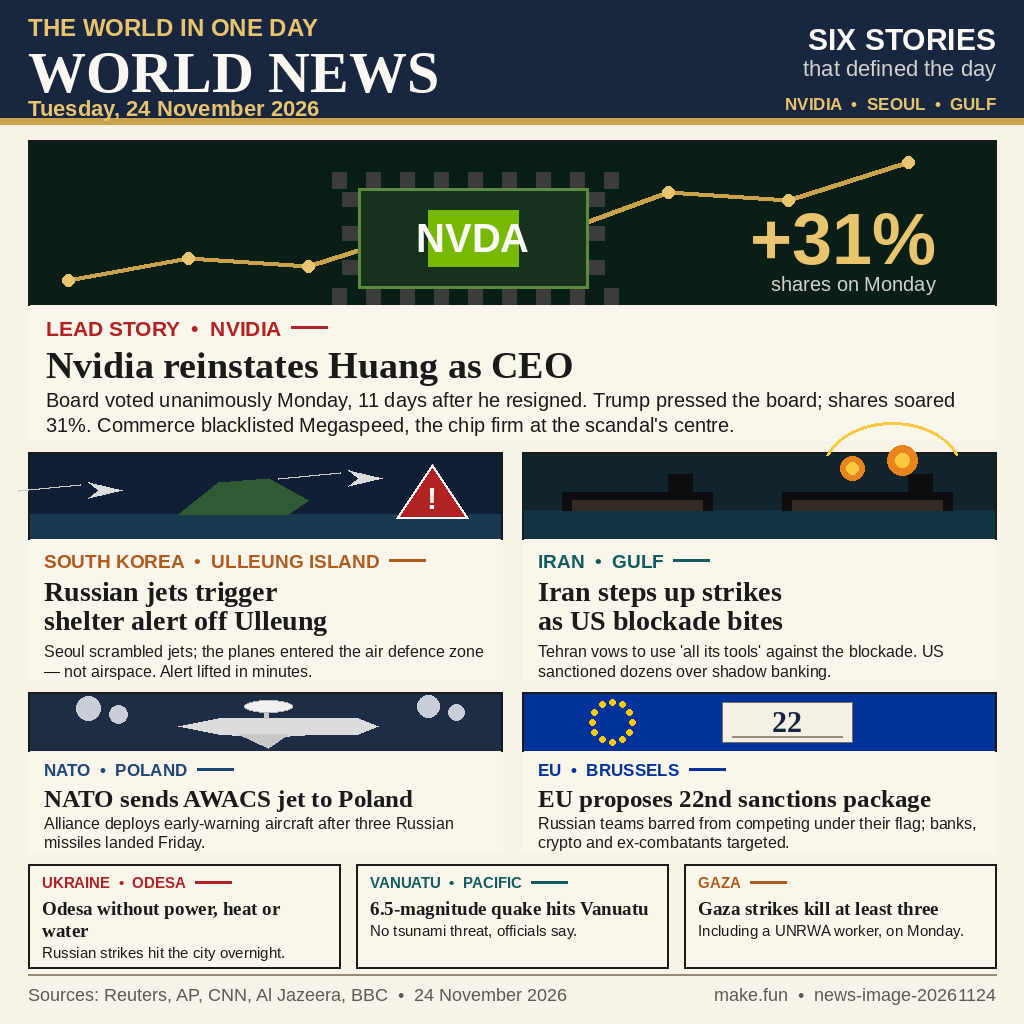
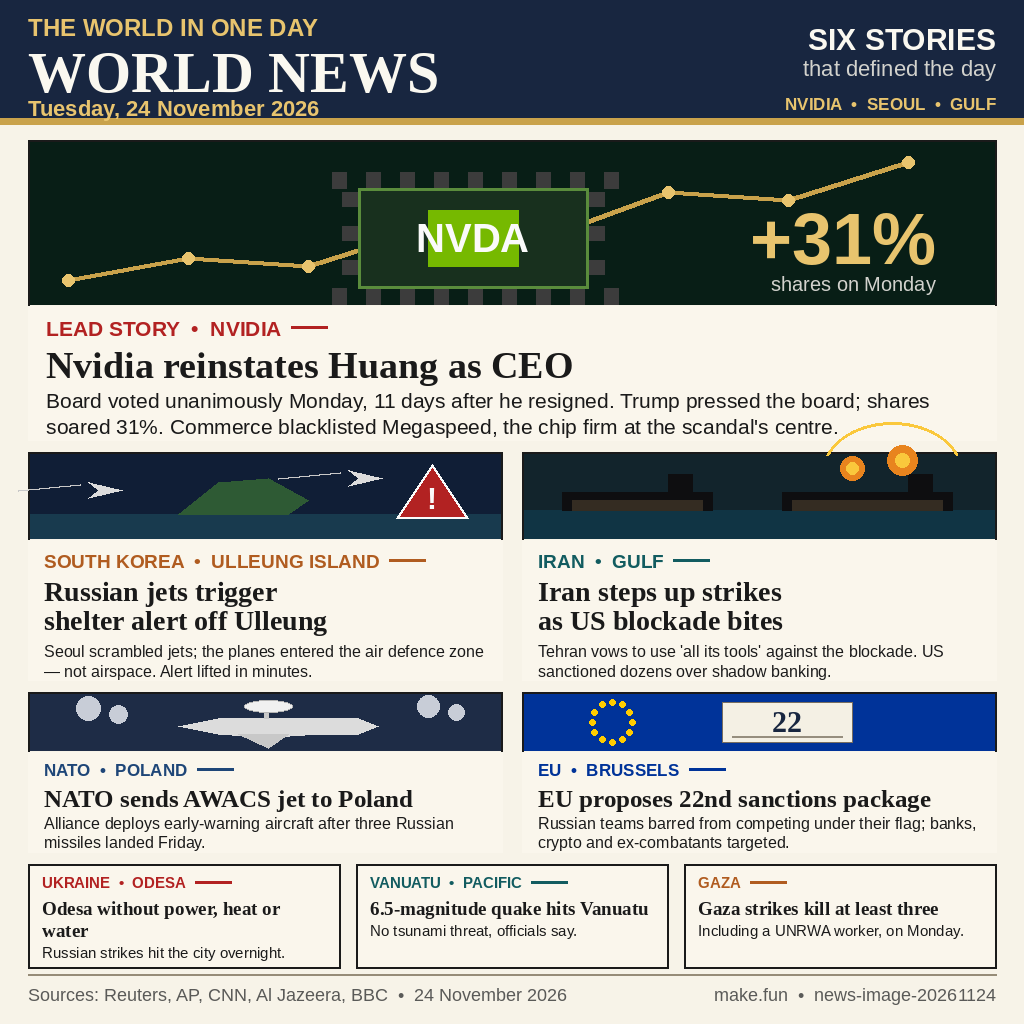
Revise draw.py: move math import to top, hero body 20pt to 21pt for legibility

Changed region(s): [[0.0312, 0.375, 0.9375, 0.4375]]

diff --git a/draw.py b/draw.py
@@ -4,6 +4,7 @@
 Deterministic: no randomness, no network, no timestamps. Pillow only.
 Run: python3 draw.py  -> writes entry.png beside this file.
 """
+import math
 import os
 from PIL import Image, ImageDraw, ImageFont
 
@@ -128,7 +129,7 @@ text_block(d, HX + 18, HY + 248,
            "Board voted unanimously Monday, 11 days after he resigned. "
            "Trump pressed the board; shares soared 31%. Commerce "
            "blacklisted Megaspeed, the chip firm at the scandal's centre.",
-           font(SANS, 20), INK, HW - 36, leading=25)
+           font(SANS, 21), INK, HW - 36, leading=26)
 
 # ------------------------------------------------- second row: two panels
 RY, RH = 452, 228
@@ -222,7 +223,6 @@ text_block(d, LX + 16, LY + 122,
 d.rectangle([RX, LY, RX + LW, LY + LH], outline=INK, width=2)
 d.rectangle([RX + 2, LY + 2, RX + PW - 2, LY + 58], fill=(0, 51, 153))
 # circle of twelve gold stars (EU flag)
-import math
 scx, scy, sr = RX + 90, LY + 30, 20
 for k in range(12):
     ang = 2 * math.pi * k / 12 - math.pi / 2
